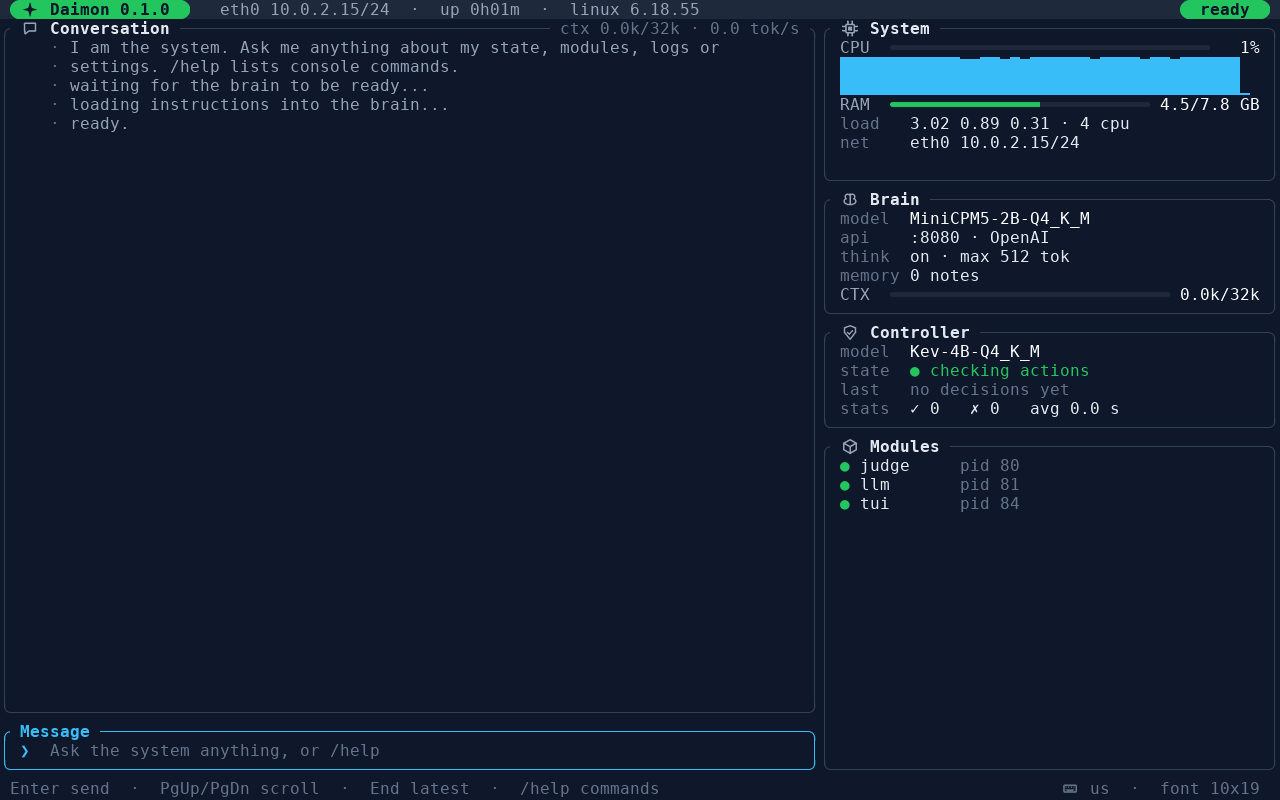
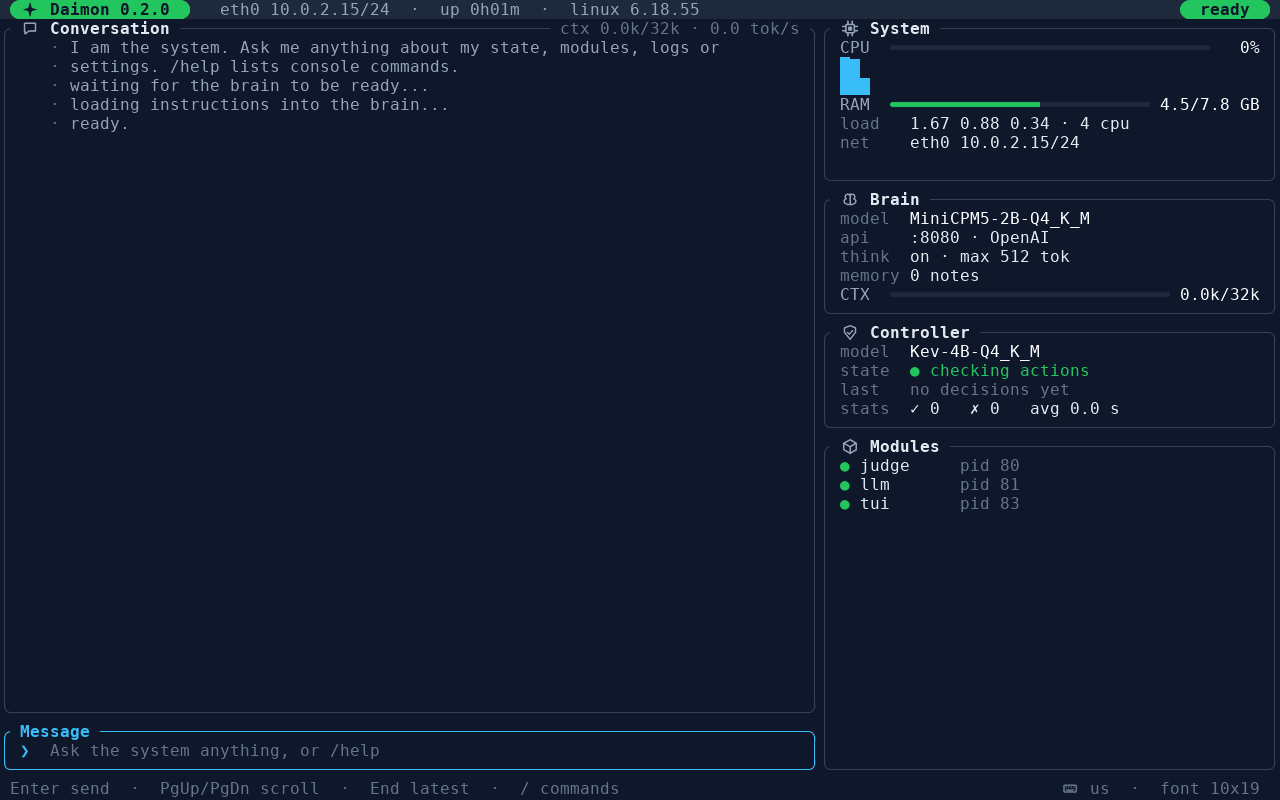
README: badges, sizes, 0.2.0 screenshots
- shields for version, codename, ISO and OS size, license, platform, kernel,
  Rust, llama.cpp, Hugging Face
- size table (ISO 67 MB, OS 25 MB, models downloaded at install)
- boot GIF and console screenshot retaken on 0.2.0, installer screenshot
- PLAN.md: sizes in known limits brought up to date

Changed region(s): [[0.6562, 0.0625, 0.9688, 0.125], [0.4062, 0.9688, 0.5, 1.0]]

diff --git a/README.md b/README.md
@@ -1,8 +1,22 @@
+<div align="center">
+
 # Daimon
 
 **An operating system where the language model *is* the system.**
 
-`0.2.0` · codename **Deucalion** · x86_64 · UEFI · GPL-3.0
+[![version](https://img.shields.io/badge/version-0.2.0-22c55e?style=flat-square)](PLAN.md#roadmap--0x-deucalion)
+[![codename](https://img.shields.io/badge/codename-Deucalion-38bdf8?style=flat-square)](PLAN.md#name-and-releases)
+[![ISO](https://img.shields.io/badge/ISO-67_MB-f59e0b?style=flat-square)](#install)
+[![OS](https://img.shields.io/badge/OS-25_MB-f59e0b?style=flat-square)](#size)
+[![license](https://img.shields.io/badge/license-GPL--3.0-a78bfa?style=flat-square)](LICENSE)
+<br>
+[![platform](https://img.shields.io/badge/x86__64-UEFI-334155?style=flat-square)](#install)
+[![kernel](https://img.shields.io/badge/Linux-6.18_LTS-334155?style=flat-square&logo=linux&logoColor=white)](kernel/aios.config)
+[![rust](https://img.shields.io/badge/Rust-2024-334155?style=flat-square&logo=rust&logoColor=white)](aios)
+[![llama.cpp](https://img.shields.io/badge/inference-llama.cpp-334155?style=flat-square)](https://github.com/ggml-org/llama.cpp)
+[![models](https://img.shields.io/badge/models-Hugging_Face-334155?style=flat-square&logo=huggingface&logoColor=white)](#models)
+
+</div>
 
 ![Daimon booting](docs/boot.gif)
 
@@ -12,7 +26,7 @@ to the system, and the system acts on itself, inspecting its own state, changing
 modules and remembering what matters. A second, smaller model, the **controller**, judges every change before it
 happens.
 
-The whole OS is a single 25 MB EFI file. The models are downloaded at install time.
+The whole OS is a single 25 MB EFI file; the installer ISO is 67 MB. The models are downloaded at install time.
 
 > In Unix a *daemon* is the process that quietly runs the machine; in Greek the *daimon* is a guiding spirit.
 > Here the model is both.
@@ -63,6 +77,15 @@ verdict, so the owner sees what the system was about to do and why it was stoppe
 
 ![The console](docs/console.png)
 
+## Size
+
+| | |
+|---|---|
+| Installer ISO (the release download) | **67 MB** |
+| The OS: one EFI file with kernel, init, agent, console and llama.cpp | **25 MB** |
+| Default models, downloaded during the install: MiniCPM5 2B (1.5 GB) + Kev 4B (2.8 GB) | 4.3 GB |
+| Smallest pair: MiniCPM5 1B (0.6 GB) + Kev 0.8B (0.8 GB) | 1.4 GB |
+
 ## Install
 
 **You need** an x86_64 machine or VM with UEFI (Secure Boot off) and a CPU with AVX2, at least 8 GB of RAM for the
@@ -78,6 +101,8 @@ installation.
 3. Answer the installer: keyboard, disk, your name, the machine name, the brain, the controller and, optionally,
    anything you want to add to the agent's instructions. Type `erase` to confirm.
 4. When the downloads are done, remove the installation medium and press Enter.
+
+![The installer](docs/installer.png)
 
 ### Models
 

diff --git a/PLAN.md b/PLAN.md
@@ -269,6 +269,7 @@ bench when adding cases or switching model.
 - The thinking budget applies per step; multi-step turns can still reason at length.
 - Keyboard: at most 256 dead-key combinations per layout (kernel MAX_DIACR); compose sequences not loaded.
 - The framebuffer UI is not redrawn after switching VT and back (nothing else runs on the other VTs).
-- Image: 4.6 GB qcow2 (brain 1.5 GB + controller 2.9 GB); the OS itself is 23 MB. Brain + controller need ~6 GB RAM
-  before KV cache: give the VM at least 8 GB.
+- Sizes: installer ISO 67 MB; the OS 25 MB; default models 4.3 GB (MiniCPM5 2B 1.5 GB + Kev 4B 2.8 GB), downloaded
+  at install. The dev image (`./build.sh`) is a 4.6 GB qcow2 with the models baked in. Brain + controller need
+  ~6.5 GB RAM with the defaults: give the VM at least 8 GB.
 - On a slow CPU the controller dominates latency (≈ tokens read per decision / prompt speed; dev box ~20 tok/s on a 4B).
